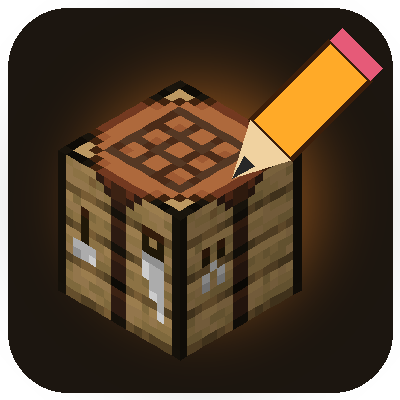
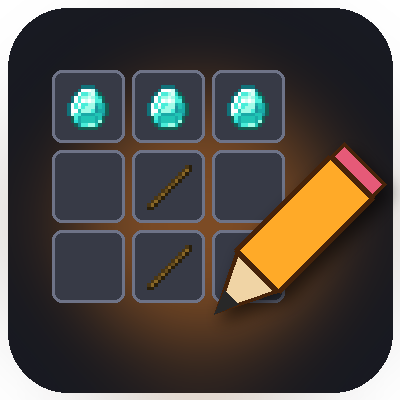
Новый логотип Recipe Editor, README про upcoming/

diff --git a/README.md b/README.md
@@ -17,6 +17,15 @@
 
 ## Гайды
 
+## Скоро на CurseForge
+
+`upcoming/<мод>.json` — мод, который ещё не вышел: карточка и страница с пометкой «Скоро на CurseForge»
+(название, описание EN/RU, теги, логотип рядом в `upcoming/`). Когда CurseForge одобрит мод
+(его Project ID должен быть в `mods.txt`; совпадение по `cf_id` или по названию), на сайте
+сама появится настоящая карточка со ссылкой и файлами. JSON после этого можно удалить.
+
+## Гайды
+
 `guides/<project id>.json` создаёт `tools/import_guides.py` из внутриигрового гайда
 (`C:\mods\grintguide`) и lang/рецептов мода. После изменения гайда запустите локально
 `py tools/import_guides.py`, затем `py tools/import_icons.py` (иконки предметов из jar-файлов
